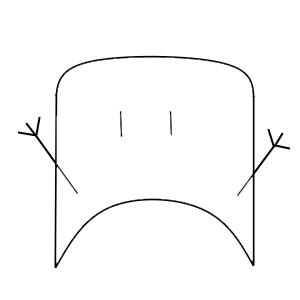
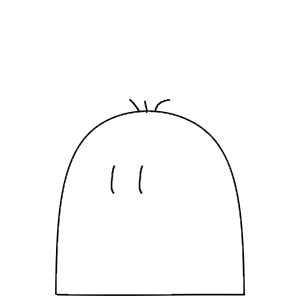
Added alternate images for computer character
-Added images for computer to be rotated each turn.

diff --git a/script.js b/script.js
@@ -917,8 +917,12 @@ function progressTurn() {
         battleText.innerText = `You attack for ${netMoveValue * -1} damage! ${
           turnMessages[1]
         }`;
+        // Change computer image to attacked.
+        computerImg.src = computerImgDir + "V1-attacked.png";
       } else {
         battleText.innerText = `Err shrugs off your attack! ${turnMessages[1]}`;
+        // Change computer image to defended.
+        computerImg.src = computerImgDir + "V1-defending.png";
       }
 
       setTimeout(() => {
@@ -936,8 +940,10 @@ function progressTurn() {
         // If game end, don't need to change innerText.
         return;
       } else {
-        // Change player image to prepare defence
+        // Change player image to prepare defence.
         playerImg.src = playerImgDir + "V1.png";
+        // Change compute rimage to prepare attack.
+        computerImg.src = computerImgDir + "V1-attackprepare.png";
         turn++;
         battleText.innerText = turnMessages[turn];
         // Update CPU move value and reset player move value.
@@ -957,8 +963,9 @@ function progressTurn() {
         Number(playedValue.innerText) - Number(computerValue.innerText);
       //Change player image to defending
       playerImg.src = playerImgDir + "V1-defending.png";
+      computerImg.src = computerImgDir + "V1-attacking.png";
       if (netMoveValue < 0) {
-        // If player does more damage than computer defence,
+        // If computer does more damage than player defence,
         humanPlayer.updateHealth(netMoveValue);
         battleText.innerText = `Err attacks for ${netMoveValue * -1} damage! ${
           turnMessages[1]
@@ -982,8 +989,10 @@ function progressTurn() {
         // If game end, don't need to change innerText.
         return;
       } else {
-        // Change player image to prepare defence
+        // Change player image to prepare defence.
         playerImg.src = playerImgDir + "V1-attackprepare.png";
+        // Change computer image to standby.
+        computerImg.src = computerImgDir + "V1.png";
         turn = 0;
         battleText.innerText = turnMessages[turn];
         // Update CPU move value and reset player move value.
